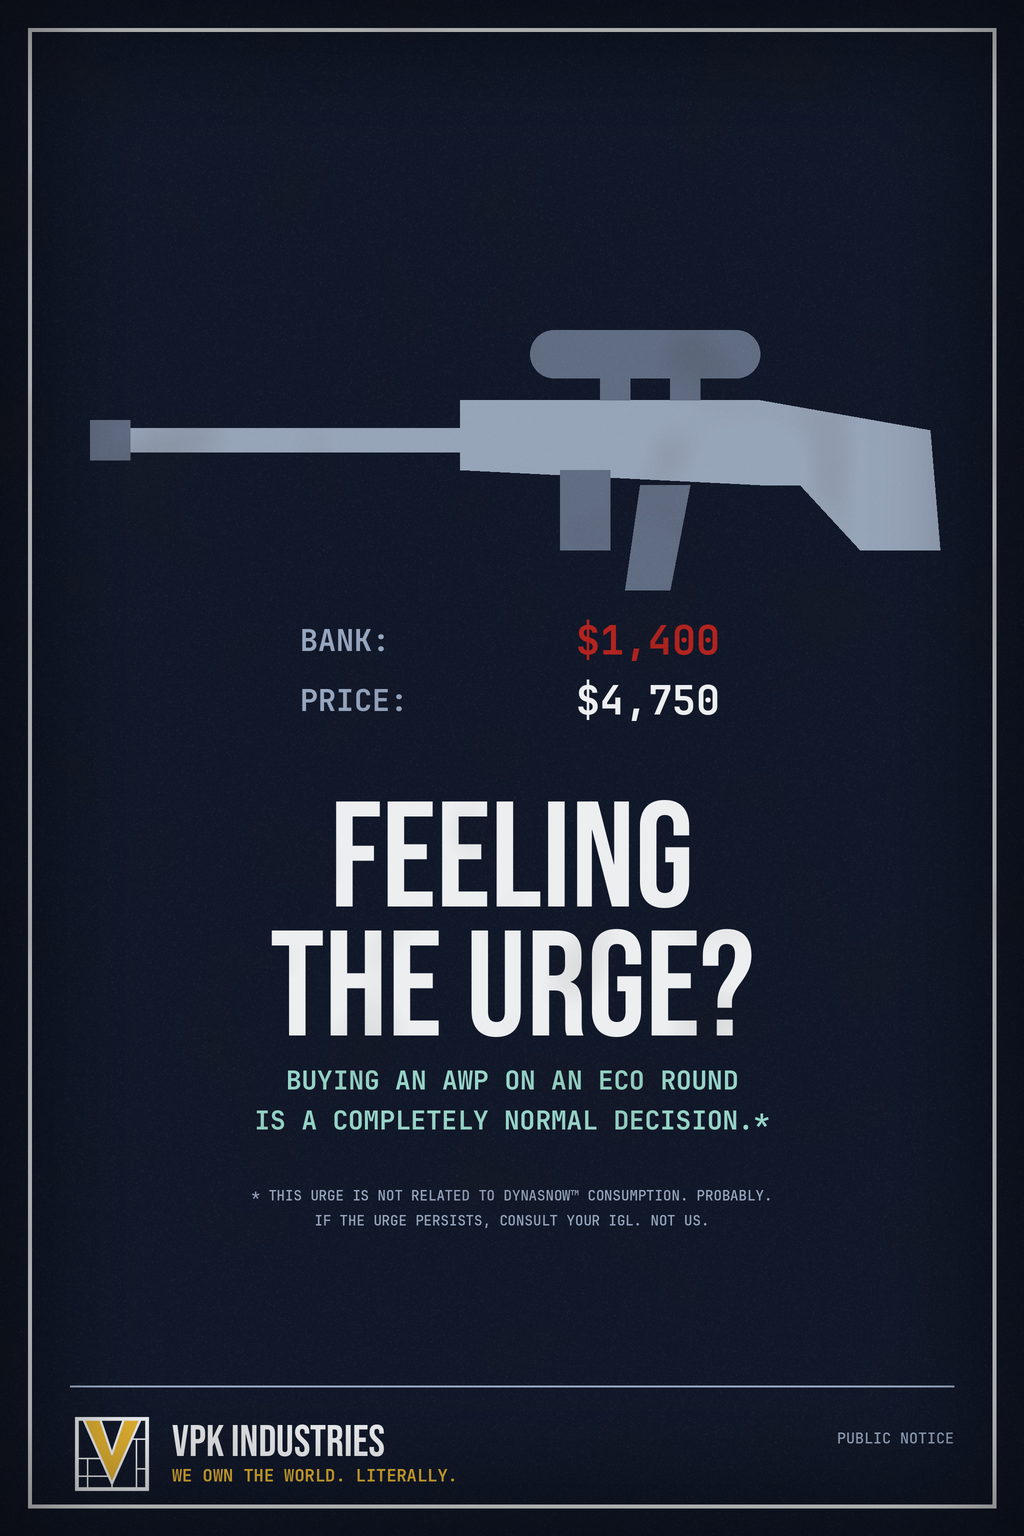
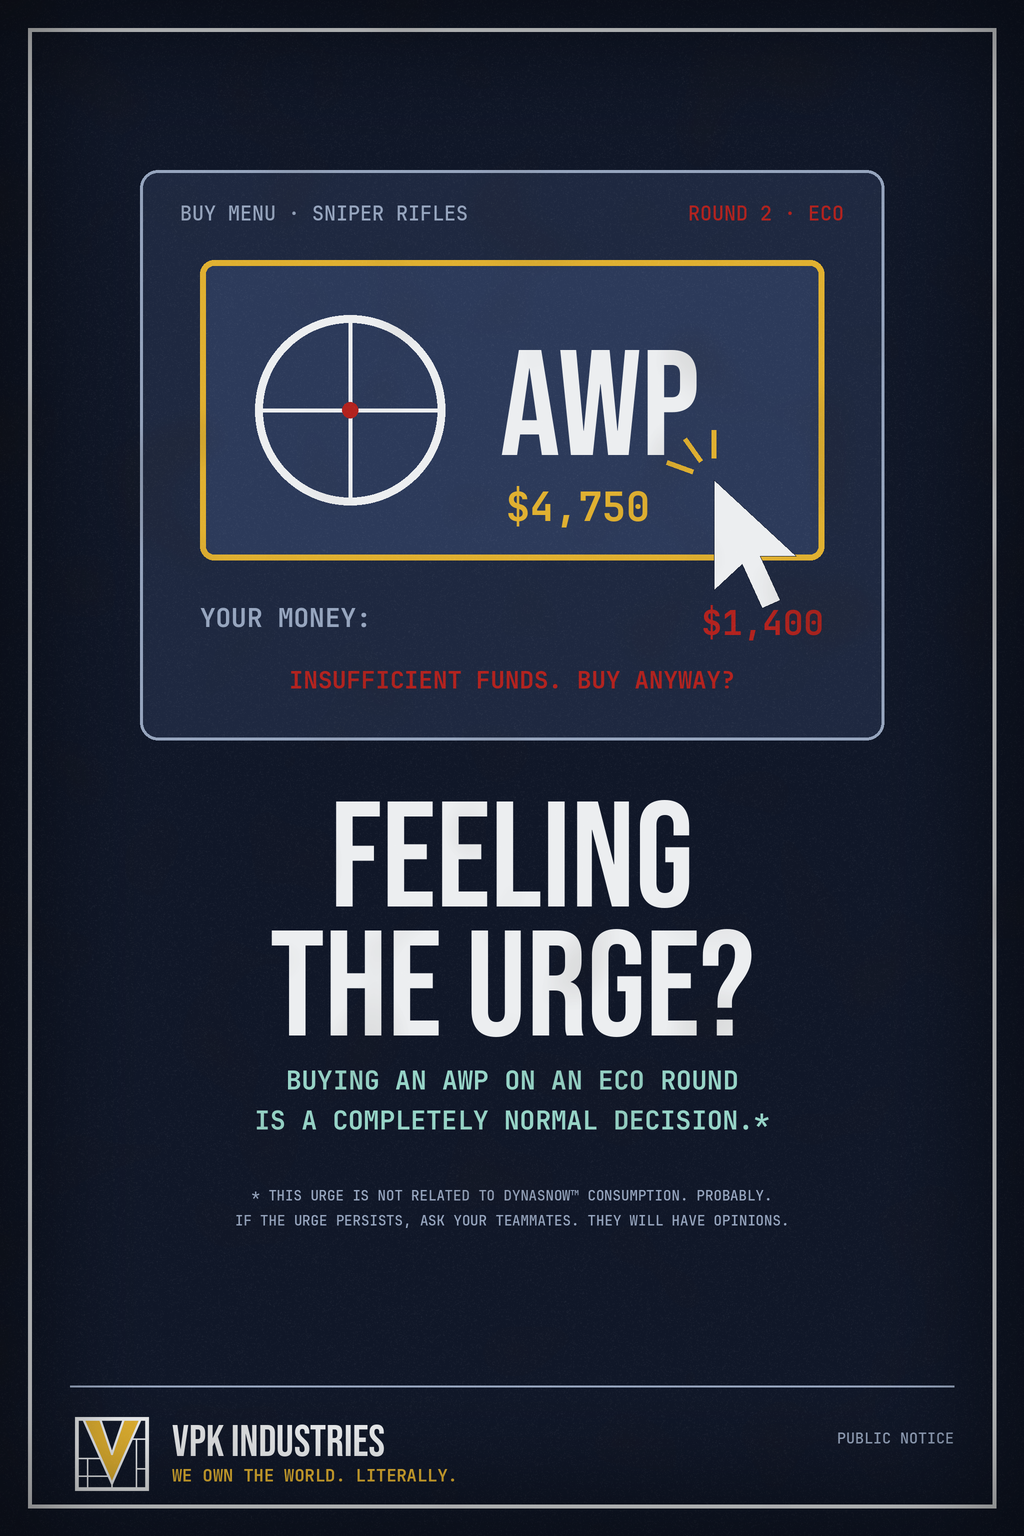
docs: rework the AWP and missed shot posters
The AWP poster shows a buy menu tile instead of a drawn rifle; new texts
without the IGL and "aim responsibly" lines.

Claude-Session: https://claude.ai/code/session_01TPtXe8YEjXWuXNmFgmXabW

Changed region(s): [[0.0625, 0.125, 0.9375, 0.5], [0.2812, 0.7812, 0.6875, 0.8125], [0.7188, 0.7812, 0.75, 0.8125]]

diff --git a/docs/vpk-industries.md b/docs/vpk-industries.md
@@ -189,8 +189,8 @@ Posters (1024×1536) for the walls of the rooms, same folder:
 | `poster_playable-area-this-way_1024x1536.png` | Green wayfinding sign: playable area →, *"You are here: nowhere"*, route: noclip |
 | `poster_thunder-plus_1024x1536.png` | *"Thunder+. Now ad-free."* |
 | `poster_kdanium-safety-data-sheet_1024x1536.png` | Kdanium Safety Data Sheet as a paper document: hazard pictograms, *"Hazards: none.\*"*, first aid (*"Ingestion: you were told."*), disposal: noclip it into the void, "APPROVED" stamp |
-| `poster_missed-that-shot_1024x1536.png` | *"Missed that shot? It probably wasn't you. It definitely wasn't us.\*"*: the crosshair 20 ms behind the target; the fine print denies any link to KD-PX products |
-| `poster_feeling-the-urge_1024x1536.png` | *"Feeling the urge?"*: an AWP, $1,400 in the bank; buying it on an eco round *"is a completely normal decision.\*"*, *"not related to DynaSnow™ consumption. Probably."* |
+| `poster_missed-that-shot_1024x1536.png` | *"Missed that shot? It wasn't your fault. It wasn't ours either.\*"*: the crosshair 20 ms behind the target; the fine print denies any link to KD-PX products |
+| `poster_feeling-the-urge_1024x1536.png` | *"Feeling the urge?"*: the AWP in the buy menu for $4,750 with $1,400 in the bank, *"Insufficient funds. Buy anyway?"*; buying it on an eco round *"is a completely normal decision.\*"*, *"not related to DynaSnow™ consumption. Probably."* |
 
 Nonvis Division posters (with the Nonvis logo in the footer):
 
